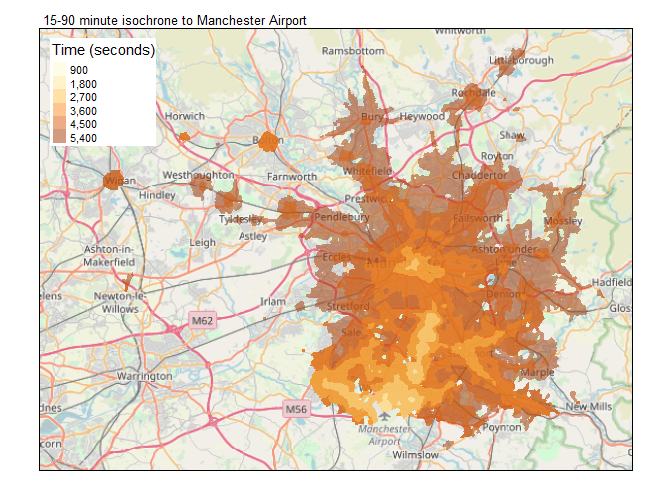
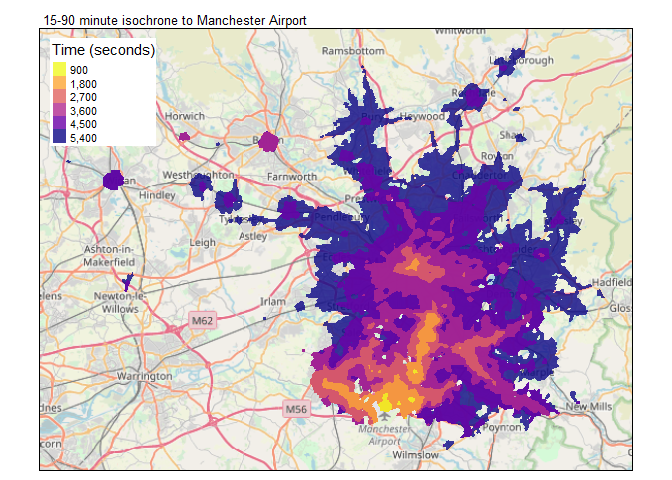
readme update

diff --git a/README.md b/README.md
@@ -128,7 +128,7 @@ otp_get_times(
 #> [1] "OK"
 #> 
 #> $duration
-#> [1] 4491
+#> [1] 4744
 
 
 # By default the date and time of travel is taken as the current system date and
@@ -241,7 +241,9 @@ tm_shape(osm_man) +
   tm_shape(my_isochrone$response) +
   tm_fill(
     col = "time",
-    alpha = 0.5,
+    alpha = 0.8,
+    palette = "-plasma",
+    n = 6,
     style = "cat",
     title = "Time (seconds)"
   ) + tm_layout(legend.position = c("left", "top"), legend.bg.color = "white", 
